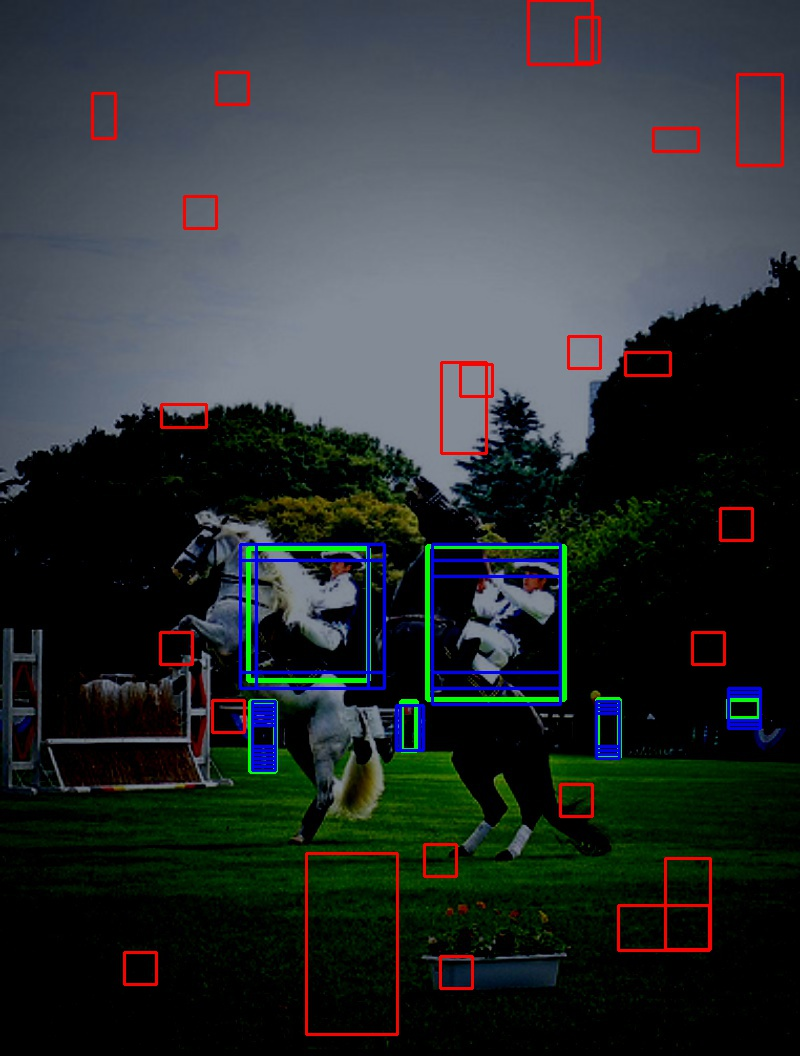
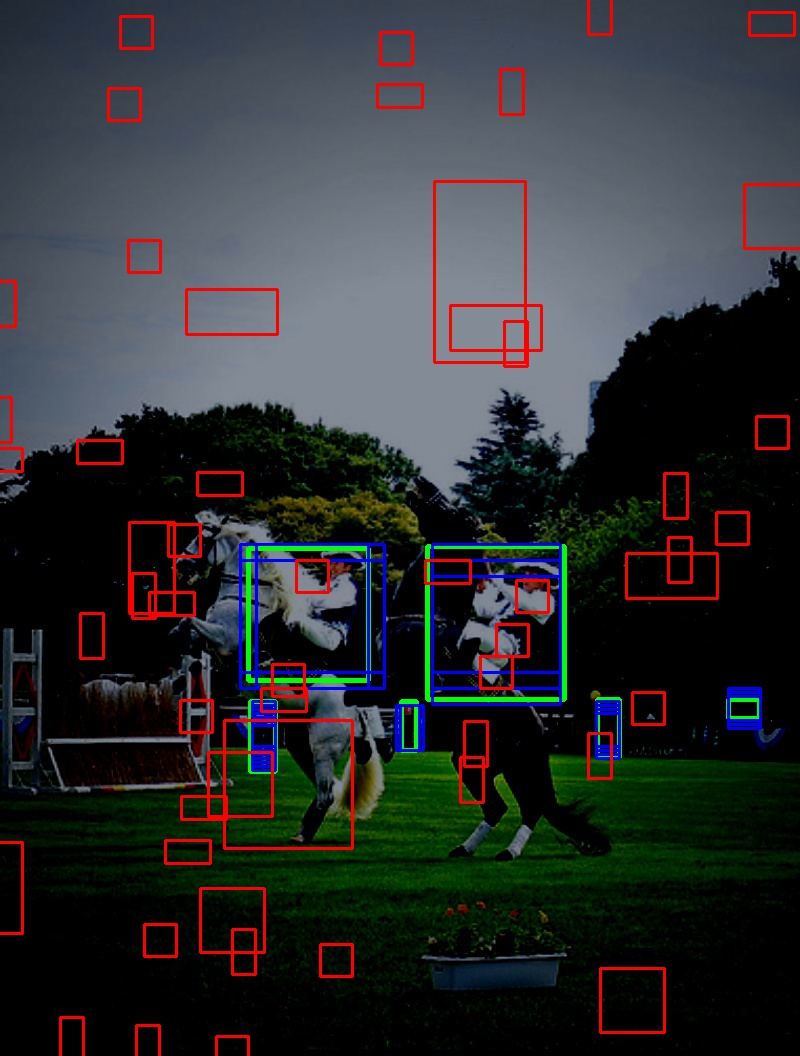
proposal generator

diff --git a/common/nets/rpn.py b/common/nets/rpn.py
@@ -3,6 +3,7 @@ import torch.nn.functional as F
 import math
 import numpy as np
 from torch import nn
+from torchvision import ops
 
 from config import cfg
 from utils.func import Box
@@ -34,7 +35,11 @@ class RPN(nn.Module):
         # predict proposal coordinate
         self.anchor_deltas = nn.Conv2d(256, 4*len(cfg.anchor_ratios), 1, stride=1)
 
+        self.img = None
+
     def forward(self, x, img, gt_data):
+        self.img = img[0]
+
         # generate anchors
         total_anchors = self.anchor_generator.get_anchors(x)
         
@@ -52,9 +57,9 @@ class RPN(nn.Module):
             # loss function
             cls_loss, loc_loss = self.loss(anchors, gt_boxes, pred_scores, pred_deltas, anchor_labels, match_gt_idxs)
         
-        self.get_proposals(total_anchors, pred_scores, pred_deltas)
+        self.get_proposals(total_anchors, pred_scores, pred_deltas, img)
 
-
+        
         # visualize anchors
         if cfg.visualize & self.training:
             #idxs = torch.randperm(len(anchors))[:1000]
@@ -64,7 +69,7 @@ class RPN(nn.Module):
             pos_anchors = anchors[idxs]
             idxs = torch.where(anchor_labels == 0)[0]
             neg_anchors = anchors[idxs]
-            visualize_labeled_anchors(img[0], gt_data['bboxs'], pos_anchors, neg_anchors, './outputs/labeled_anchor_image.jpg')
+            visualize_labeled_anchors(self.img, gt_data['bboxs'], pos_anchors, neg_anchors, './outputs/labeled_anchor_image.jpg')
 
         return cls_loss, loc_loss
 
@@ -91,12 +96,12 @@ class RPN(nn.Module):
 
         bs, _, h, w = pred_scores.shape
 
-        pred_scores = pred_scores.view(bs, 2, -1)   # [bs, 2, 3*h*w]
+        pred_scores = pred_scores.reshape(bs, 2, -1)   # [bs, 2, 3*h*w]
         pred_scores = F.softmax(pred_scores, 1)     # [bs, 2, 3*h*w]
-        pred_deltas = pred_deltas.view(bs, 4, -1)   # [bs, 4, 3*h*w]          
+        pred_deltas = pred_deltas.reshape(bs, 4, -1)   # [bs, 4, 3*h*w]          
 
-        pred_scores = pred_scores.permute(0, 2, 1)  # [bs, h*w, 2]
-        pred_deltas = pred_deltas.permute(0, 2, 1)  # [bs, h*w, 4]
+        pred_scores = pred_scores.permute(0, 2, 1)  # [bs, 3*h*w, 2]
+        pred_deltas = pred_deltas.permute(0, 2, 1)  # [bs, 3*h*w, 4]
 
         return pred_scores, pred_deltas
 
@@ -114,10 +119,35 @@ class RPN(nn.Module):
         gt_delta = Box.pos_to_delta(match_gt_boxes, pos_anchors)    #target
         pos_deltas = pred_deltas[idxs]              # pred
         
+        '''
+        if cfg.visualize:
+            pos_proposal = Box.delta_to_pos(pos_anchors, pos_deltas)
+            visualize_labeled_anchors(self.img, match_gt_boxes, pos_proposal, pos_proposal, './outputs/debug_anchor_image.jpg')
+        '''
+        
         # scores
         idxs = torch.where(anchor_labels >= 0)[0]
         gt_labels = anchor_labels[idxs]             # target
         mask_scores = pred_scores[idxs]             # pred
+        
+        '''
+        idxs = torch.where(anchor_labels == 1)[0]
+        aaa = pred_scores[idxs, 1]
+        idxs = torch.where(anchor_labels == 0)[0]
+        bbb = pred_scores[idxs, 1]
+        print(aaa)
+        print(bbb)
+
+        scores, idx = pred_scores[:, 1].sort(descending=True)
+        scores, topk_idx = scores[:150], idx[:150]
+
+        d_delta = pred_deltas[topk_idx]
+        d_anchors = anchors[topk_idx]
+        if cfg.visualize:
+            pos_proposal = Box.delta_to_pos(d_anchors, d_delta)
+            visualize_labeled_anchors(self.img, match_gt_boxes, pos_proposal, pos_proposal, './outputs/debug_score_image.jpg')
+        '''
+
 
         cls_loss = F.cross_entropy(mask_scores, gt_labels.long(), ignore_index=-1)
         cls_loss = cls_loss / len(gt_labels)
@@ -137,28 +167,50 @@ class RPN(nn.Module):
         loss_box = loss_box.view(-1).sum(0) / N
         return loss_box
 
-    def get_proposals(self, total_anchors, pred_scores, pred_deltas):
+    def get_proposals(self, total_anchors, pred_scores, pred_deltas, img):
+        img_size = (img.shape[2], img.shape[3])
+
         pred_proposals = []
+        proposal_scores = []
 
         for scores, deltas, anchors in zip(pred_scores, pred_deltas, total_anchors):
             scores = scores[:,1]
 
             # pre nms topk
             K = min(self.pre_nms_topk, len(scores))
-
             scores, idx = scores.sort(descending=True)
             scores, topk_idx = scores[:K], idx[:K]
 
+            # get proposals
             topk_deltas = deltas[topk_idx]
             topk_anchors = anchors[topk_idx]
             proposals = Box.delta_to_pos(topk_anchors, topk_deltas)
-            
-            print(proposals.shape)
-            print(scores.shape)
 
-            #proposals = Box.delta_to_pos(anchors, deltas)
-            #pred_proposals.append(proposals)
+            pred_proposals.append(proposals)
+            proposal_scores.append(scores)
+        
+        pred_proposals = torch.cat(pred_proposals, dim=0)
+        proposal_scores = torch.cat(proposal_scores, dim=0)
+
+        # valid check
+        proposal_scores, pred_proposals = Box.box_valid_check(proposal_scores, pred_proposals, img_size)
+
+        # post nms topk
+        topk_idx = ops.nms(pred_proposals, proposal_scores, self.nms_threshold)
+        topk_idx = topk_idx[:self.post_nms_topk]
+        
+        proposal_scores = proposal_scores[topk_idx]
+        pred_proposals = pred_proposals[topk_idx]
+        print(pred_proposals.shape)
+
+        print(proposal_scores[:100])
+            
+        if cfg.visualize:
+            visualize_anchors(self.img, pred_proposals[:100], './outputs/proposal_image.jpg')
         
 
-
-
+        #proposal_scores, idx = proposal_scores.sort(descending=True)
+        #topk_idx = idx[: 200]
+        
+        
+        

diff --git a/common/utils/func.py b/common/utils/func.py
@@ -65,27 +65,27 @@ class Box:
     
     def pos_to_delta(box1, box2):
         # gt_box
-        box1_h = box1[:, 2] - box1[:, 0]
-        box1_w = box1[:, 3] - box1[:, 1]
-        box1_ctr_y = box1[:, 0] + 0.5 * box1_h
-        box1_ctr_x = box1[:, 1] + 0.5 * box1_w
+        box1_w = box1[:, 2] - box1[:, 0]
+        box1_h = box1[:, 3] - box1[:, 1]
+        box1_ctr_x = box1[:, 0] + 0.5 * box1_w
+        box1_ctr_y = box1[:, 1] + 0.5 * box1_h
 
         # anchor
-        box2_h = box2[:, 2] - box2[:, 0]
-        box2_w = box2[:, 3] - box2[:, 1]
-        box2_ctr_y = box2[:, 0] + 0.5 * box2_h
-        box2_ctr_x = box2[:, 1] + 0.5 * box2_w        
+        box2_w = box2[:, 2] - box2[:, 0]
+        box2_h = box2[:, 3] - box2[:, 1]
+        box2_ctr_x = box2[:, 0] + 0.5 * box2_w
+        box2_ctr_y = box2[:, 1] + 0.5 * box2_h        
 
-        dy = (box1_ctr_y - box2_ctr_y) / box2_h
         dx = (box1_ctr_x - box2_ctr_x) / box2_w
-        dh = torch.log(box1_h / box2_h)
+        dy = (box1_ctr_y - box2_ctr_y) / box2_h
         dw = torch.log(box1_w / box2_w)
+        dh = torch.log(box1_h / box2_h)
 
         return torch.stack((dx, dy, dw, dh), dim=1)
 
 
     def delta_to_pos(boxes, delta):
-        # gt box
+        # anchor
         box_w = boxes[:, 2] - boxes[:, 0]
         box_h = boxes[:, 3] - boxes[:, 1]
         box_x = boxes[:, 0] + 0.5 * box_w
@@ -102,14 +102,43 @@ class Box:
         pred_w = torch.exp(dw) * box_w
         pred_h = torch.exp(dh) * box_h
 
-        # return to (x0, x1, y0, y1) type
-        pred_boxes = torch.zeros(delta.shape)
-        pred_boxes[:, 0] = pred_x - 0.5 * pred_w 
-        pred_boxes[:, 1] = pred_y - 0.5 * pred_h
-        pred_boxes[:, 2] = pred_x + 0.5 * pred_w
-        pred_boxes[:, 3] = pred_y + 0.5 * pred_h
+        pos_x1 = pred_x - 0.5 * pred_w 
+        pos_y1 = pred_y - 0.5 * pred_h
+        pos_x2 = pred_x + 0.5 * pred_w
+        pos_y2 = pred_y + 0.5 * pred_h
 
-        return pred_boxes
+        return torch.stack((pos_x1, pos_y1, pos_x2, pos_y2), dim=1)
+
+    def box_valid_check(scores, boxes, img_size):
+        # finite check
+        mask = torch.isfinite(boxes).all(dim=1) & torch.isfinite(scores)
+        boxes = boxes[mask]
+        scores = scores[mask]
+
+        H, W = img_size
+        # removal
+        idxs = torch.where((boxes[:, 0] >= 0) & (boxes[:, 0] <= W))[0]
+        scores, boxes = scores[idxs], boxes[idxs]
+        idxs = torch.where((boxes[:, 1] >= 0) & (boxes[:, 1] <= H))[0]
+        scores, boxes = scores[idxs], boxes[idxs]
+        idxs = torch.where((boxes[:, 2] >= 0) & (boxes[:, 2] <= W))[0]
+        scores, boxes = scores[idxs], boxes[idxs]
+        idxs = torch.where((boxes[:, 3] >= 0) & (boxes[:, 3] <= H))[0]
+        scores, boxes = scores[idxs], boxes[idxs]
+
+        # clamp
+        '''     
+        boxes[:, 0].clamp_(min=0, max=W)
+        boxes[:, 1].clamp_(min=0, max=H)
+        boxes[:, 2].clamp_(min=0, max=W)
+        boxes[:, 3].clamp_(min=0, max=H)
+        '''
+        
+        # area check
+        mask = ((boxes[:, 2] - boxes[:, 0]) > 0) & ((boxes[:, 3] - boxes[:, 1]) > 0)
+        scores, boxes = scores[mask], boxes[mask]
+
+        return scores, boxes
 
 class Keypoint:
     def to_array(keypoints):

diff --git a/main/config.py b/main/config.py
@@ -5,7 +5,22 @@ class Config:
     # path config
     cur_dir = os.path.dirname(os.path.abspath(__file__))
     root_dir = os.path.join(cur_dir, '..')
-    model_path = os.path.join(root_dir, 'checkpoint.pth')
+    
+    # training parameter
+    model_path = os.path.join(root_dir, 'common', 'nets', 'checkpoints', 'checkpoint.pth')
+    save_checkpoint = True
+    load_checkpoint = True
+    visualize = True
+
+    batch_size = 1
+    num_worker = 1
+    shuffle = False
+    epoch = 1001
+    is_train = 'train'
+    lr = 0.01
+    weight_decay = 0.0001
+    momentum = 0.9
+    smooth_l1_beta = 1.0 
 
     # datasets
     train_datasets = ['COCOKeypoint']
@@ -17,7 +32,7 @@ class Config:
     min_size = 800
     max_size = 1333
     pad_unit = 32
-    
+
     # FPN
     resnet_pretrained = True
     fpn_pretrained = False
@@ -33,21 +48,8 @@ class Config:
     post_nms_topk_test = 2000
     negative_anchor_threshold = 0.3
     positive_anchor_threshold = 0.7
-    positive_ratio = 0.5
+    positive_ratio = 0.3
     nms_threshold = 0.7
-
-    # training parameter
-    checkpoint = False
-    batch_size = 1
-    num_worker = 1
-    shuffle = False
-    epoch = 1000
-    is_train = 'train'
-    visualize = True
-    lr = 0.0005
-    weight_decay = 0.0001
-    momentum = 0.9
-    smooth_l1_beta = 0.5
 
     def set_args(self, gpu):
         self.gpu = gpu

diff --git a/main/train.py b/main/train.py
@@ -26,7 +26,7 @@ def main():
     # set trainer
     trainer = Trainer()
     trainer.build_dataloader()
-    if cfg.checkpoint:
+    if cfg.load_checkpoint:
         start_epoch = trainer.load_model()
     else :
         trainer.build_model()
@@ -64,7 +64,8 @@ def main():
 
                 gt_img = data[0]['raw_image']
                 visualize_input_image(gt_img, raw_gt_data, './outputs/gt_image.jpg')
-        if epoch % 50 == 0:
+
+        if cfg.save_checkpoint & (epoch % 50 == 0):
             trainer.save_model(epoch)
 
 if __name__ == "__main__":

diff --git a/common/utils/visualize.py b/common/utils/visualize.py
@@ -15,7 +15,7 @@ def visualize_anchors(img, anchors, output_path):
     img = img.cpu().numpy().transpose(1, 2, 0)
     cv2.imwrite(output_path, img)
     img = cv2.imread(output_path)
-
+        
     img = Box.visualize_box(img, anchors, color=(255, 255, 255), thickness=1)
     cv2.imwrite(output_path, img)
 

diff --git a/README.md b/README.md
@@ -389,7 +389,7 @@ Updates per week.
 - TODO  
   1) remove non human class image       - OK!
   2) construct loss function            - OK!
-  3) implement region proposal (test)
+  3) implement region proposal (test)   - OK!
   4) set batch size = 2
 
 
@@ -399,3 +399,13 @@ Updates per week.
 * **Model save/load function**    
   
 * **Separate anchor function part**  
+
+* **Pre NMS function**
+
+* **Box validation check function**
+
+* **Post NMS function**
+
+* **delta 부분은 학습이 잘 이루어지는 것을 확인할 수 있었는데, score 부분이 학습이 잘 이루어지지 않음**
+  -> gt labeling 부분을 다시 debugging 해야할 듯함
+
